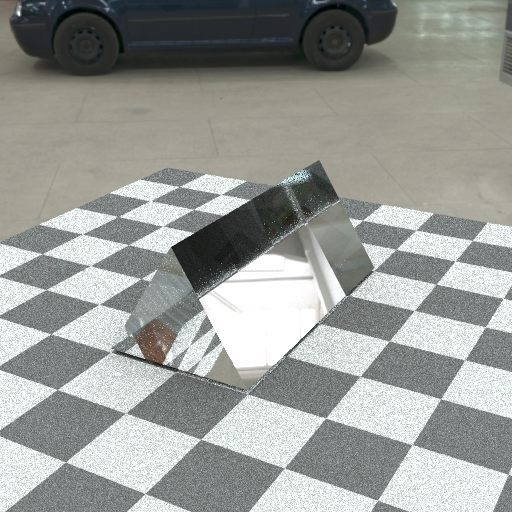
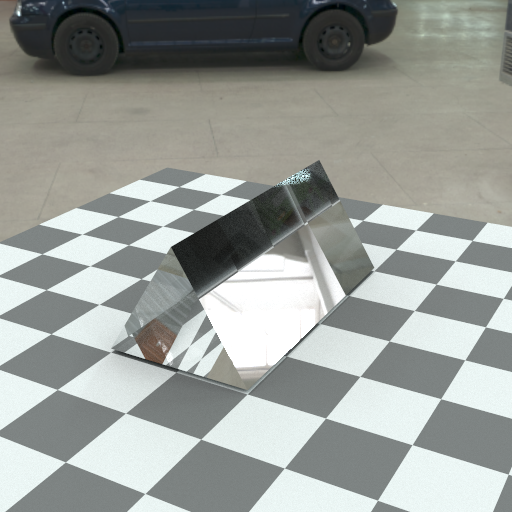
Set diffuse depth to four and refresh camera previews

diff --git a/src/config/mod.rs b/src/config/mod.rs
@@ -93,7 +93,7 @@ mod tests {
         expected.render.camera_spp = 256;
         expected.scene.environment_samples = 8;
         expected.scene.environment_mis_heuristic = sceneconfig::EnvironmentMisHeuristic::Power;
-        expected.scene.max_diffuse_bounces = 1;
+        expected.scene.max_diffuse_bounces = 4;
         expected.scene.environment.as_mut().unwrap().map_path =
             Some(PathBuf::from("assets/HDRI/autoshop_01_4k.hdr"));
         assert_eq!(config, expected);

diff --git a/src/scene/tests.rs b/src/scene/tests.rs
@@ -587,7 +587,7 @@ fn empty_and_configured_scenes_preserve_distinct_defaults_and_shared_fields() {
             preset.environment_mis_heuristic,
             preset.max_diffuse_bounces
         ),
-        (8, Power, 1)
+        (8, Power, 4)
     );
     assert!(!empty.environment.as_ref().unwrap().has_map());
     assert!(preset.environment.as_ref().unwrap().has_map());

diff --git a/README.md b/README.md
@@ -35,7 +35,7 @@
 
 **阶段 E1 已加入可选的单次 Lambertian 间接反弹。** `scene.max_diffuse_bounces` 缺省为 0，设为 1 时将第二个 Lambertian 表面的太阳/环境直接光照传回第一个表面，只计入 Direct；玻璃上限和 Caustics 保持原行为。独立验证场景见 `diffuse_indirect` 示例和下方 E1 说明。
 
-**E2 已支持有限深度 Lambertian 路径与 Russian Roulette。** `max_diffuse_bounces` 可设为 0–1024，每条路径最多照明 N+1 个漫反射顶点；0/1 保持旧版结果与 RNG 顺序，展示 JSON 仍为 1。后续顶点只返回太阳/环境直接光，不读取二次焦散或完整地面图；详细兼容、终止和验收见下方 E2。各旧阶段记录保留当时的范围与测量参数。
+**E2 已支持有限深度 Lambertian 路径与 Russian Roulette。** `max_diffuse_bounces` 可设为 0–1024，每条路径最多照明 N+1 个漫反射顶点；0/1 保持旧版结果与 RNG 顺序，当前展示 JSON 为 4。后续顶点只返回太阳/环境直接光，不读取二次焦散或完整地面图；详细兼容、终止和验收见下方 E2。各旧阶段记录保留当时的范围与测量参数。
 
 **V0.4 阶段 17 已加入地面棋盘格并调整构图。** 默认太阳传播方向改为 `[0.45, 0, -1]`，相机位置 `[2.5, -4.5, 2.6]`、目标 `[0, 0, 0.4]`、垂直 FOV `35°`。棋盘格按地面世界 x/y 坐标生成，每格 0.5 米，只在相机着色时调制反射率。
 
@@ -772,7 +772,7 @@ cargo test --release --locked compare_power_sampling -- --ignored --nocapture
 
 ### 阶段 E1：单次漫反射间接光照（0/1 兼容语义）
 
-在 `scene` 中加入 `"max_diffuse_bounces": 1` 可启用；省略时为 0。E1 阶段只接受 0/1，E2 扩展到 0–1024，并保留下列 0/1 语义。当前展示 JSON 已显式设置 `max_diffuse_bounces=1`、`environment_samples=8`、`environment_mis_heuristic="power"`；`Scene::new` 和旧 JSON 缺省时仍关闭漫反射反弹。SPP、HDRI 分布、MIS 算法、曝光和颜色转换保持原设置。此开关作用于共用 `trace_camera_path()` 的玻璃相机入口，`render_camera_lit` 仍是单次直接光照调试器。
+在 `scene` 中加入 `"max_diffuse_bounces": 1` 可启用；省略时为 0。E1 阶段只接受 0/1，E2 扩展到 0–1024，并保留下列 0/1 语义。当前展示 JSON 已显式设置 `max_diffuse_bounces=4`、`environment_samples=8`、`environment_mis_heuristic="power"`；`Scene::new` 和旧 JSON 缺省时仍关闭漫反射反弹。SPP、HDRI 分布、MIS 算法、曝光和颜色转换保持原设置。此开关作用于共用 `trace_camera_path()` 的玻璃相机入口，`render_camera_lit` 仍是单次直接光照调试器。
 
 第一处 Lambertian A 仍保留原太阳、环境和绑定地面光照。E1 通过 `material.sample(wo, normal, rng)` 生成一条连续方向，沿 A 法线偏移 `1e-5 m` 后求最近交点 B。`sample_diffuse_ray()` 计算线性 RGB 吞吐量，`sample_one_diffuse_indirect()` 只计算 B 的现有直接光照，不再续追漫反射或玻璃：
 
@@ -815,11 +815,13 @@ E1 当时只包含 A→B→直接光源，E2 的多次漫反射与 Russian Roule
 
 ### E2：可配置的有限深度 Lambertian 路径
 
-`scene.max_diffuse_bounces=N` 控制额外的漫反射连接数：0 只照明 A，1 照明 A/B，2 照明 A/B/C，依此类推。Rust 内置值及旧 JSON 缺省仍为 0；`configs/default.json` 继续使用 **8 个环境样本、Power MIS、1 次漫反射、256 SPP**。启用更深路径时可在自己的配置副本中设置：
+`scene.max_diffuse_bounces=N` 控制额外的漫反射连接数：0 只照明 A，1 照明 A/B，2 照明 A/B/C，依此类推。Rust 内置值及旧 JSON 缺省仍为 0；`configs/default.json` 当前使用 **8 个环境样本、Power MIS、4 次漫反射、256 SPP**。启用更深路径时可在自己的配置副本中设置：
 
 ```json
 "max_diffuse_bounces": 5
 ```
+
+2026-11-02 将展示深度改为 4 后，使用 512×512、256 SPP、seed=42、8 个环境样本、Power MIS 和曝光 1，实际渲染深度 1/4 对照。Direct、Caustics、Combined 各 262144 个像素的 XYZ 均逐位相同，最大差值为 0；Combined 的平均线性 Y 均为 0.579466156061661。三张当前展示图已重新生成。默认场景只有一个水平 Lambertian 地面和玻璃棱镜，地面 BSDF 射线随后 miss 或命中玻璃终止，因此没有额外漫反射顶点可供更深预算照明；这组画面不能展示多表面的颜色传递。
 
 只接受 0–1024，拒绝更大值。对深度 >=2，配置和运行时相机入口用 checked multiplication 检查 `width*height*spp*environment_samples*(N+1)` 的最坏样本工作量，溢出时在分配/追踪前返回错误；0/1 保留旧工作量校验语义。路径状态为 O(1)，没有递归调用或按深度分配的历史栈。深度上限仍会影响最坏运行时间，RR 不替代有限预算。
 

diff --git a/AGENTS.md b/AGENTS.md
@@ -6,11 +6,11 @@
 
 - 光源端：平行光经三棱镜双界面折射，包含 Fresnel 透射通量权重；地面 XYZ 累积、CIE/D65 光谱积分及 sRGB PNG。
 - 相机端：最多八次玻璃 Fresnel 反射/折射；解析太阳、HDRI/渐变环境照明、固定配额 Balance/Power MIS、有限深度 Lambertian 路径与 Russian Roulette。
-- E2 允许 `max_diffuse_bounces=0..1024`，Rust 缺省为 0，展示 JSON 保持 1。0/1 须保留 E1 的结果、浮点分组与 RNG 顺序。后续 Lambertian 顶点只接收太阳/环境直接光，归入 Direct；miss/玻璃不继续，不能重复计入逃逸 HDRI、焦散图或完整地面图。
+- E2 允许 `max_diffuse_bounces=0..1024`，Rust 缺省为 0，展示 JSON 使用 4。0/1 须保留 E1 的结果、浮点分组与 RNG 顺序。后续 Lambertian 顶点只接收太阳/环境直接光，归入 Direct；miss/玻璃不继续，不能重复计入逃逸 HDRI、焦散图或完整地面图。
 - 路径迭代更新 RGB 吞吐量、当前 Ray、radiance 与独立玻璃/漫反射计数。第三次漫反射后且有剩余预算时执行 RR，p=clamp(max(RGB throughput),0.05,0.95)，存活除 p 补偿；最后顶点和 0/1 不抽 RR。
 - 相机像素使用独立确定性 RNG 流与 Rayon；Direct/Caustics/Combined 共用路径。
 - `src/render/integrator.rs` 是入口，具体职责位于其子模块；`src/scene.rs` 保留 Scene 主类型，构建、物体、光照、棋盘格和光子追踪分开实现。
-- Rust 内置/旧 JSON 缺省值为环境样本 1、Balance、漫反射反弹 0；`configs/default.json` 显式使用 8、Power、1。相机 SPP 的 Rust 缺省值为 64，展示 JSON 为 256；两者不可混同。
+- Rust 内置/旧 JSON 缺省值为环境样本 1、Balance、漫反射反弹 0；`configs/default.json` 显式使用 8、Power、4。相机 SPP 的 Rust 缺省值为 64，展示 JSON 为 256；两者不可混同。
 
 这是有界的 Lambertian 路径估计器，不是通用无偏 Path Tracer。未经当前任务明确授权，不增加漫反射后的玻璃续追、新材质、透明 shadow ray、环境焦散、GUI/GPU、BVH/KD-Tree 或通用 Photon Mapping。
 

diff --git a/ROADMAP.md b/ROADMAP.md
@@ -520,6 +520,8 @@ E1 验收后，按用户要求将展示配置 `configs/default.json` 调整为 `
 - **RR 验收：** fmt、305 项单元测试、38 项集成测试、严格全目标 Clippy、diff 检查通过；14 项 E2 测试另在 release 通过。0/1 的 162 XYZ / 162 PNG 与 e664004 逐字节相同；含彩色墙的 E1 冻结参考比较三条 RNG 和 RGB 位，深路径 1/2/4 线程、两种 MIS、光子图与三个分量回归通过。独立双平面有限级数、RR 补偿/终止、终点零抽样、棋盘格重复命中、深路径 HDRI/贴图不重复以及非法 BSDF/PDF/方向的处理均验证。
 - **范围：** 展示 JSON 保持 8/Power/1/256 SPP，Rust 深度缺省 0，不引入依赖。只续追 Lambertian 链，漫反射后遇玻璃截断；二值阴影、光源双界面/焦散图近似、有限深度截断仍保留。下一阶段单独定义 diffuse→glass→diffuse 的 MIS 和焦散归属，不扩展到 BDPT 或通用光子查询。
 
+2026-11-02 展示参数调整：按用户要求将 `configs/default.json` 的 `max_diffuse_bounces` 从 1 改为 4，Rust 缺省 0、玻璃上限 8、其他展示参数不变；配置测试和当前说明同步。实际以 512×512、256 SPP、seed=42、N_env=8、Power、曝光 1 对照深度 1/4，三分量 XYZ 全部逐位一致（各 262144 像素、最大差值 0），并重新生成三张相机 PNG。当前只有单个漫反射地面，后续 miss/玻璃终止，新增深度未产生更多漫反射连接。305 项单元测试、38 项集成测试、fmt/严格 Clippy/diff 检查通过，3 项旧比较默认忽略。
+
 ## 6. Codex 执行约定
 
 1. **每次只实现当前一个里程碑**，完成后总结修改文件、运行命令、测试结果和下一步；不要抢跑后续阶段。
